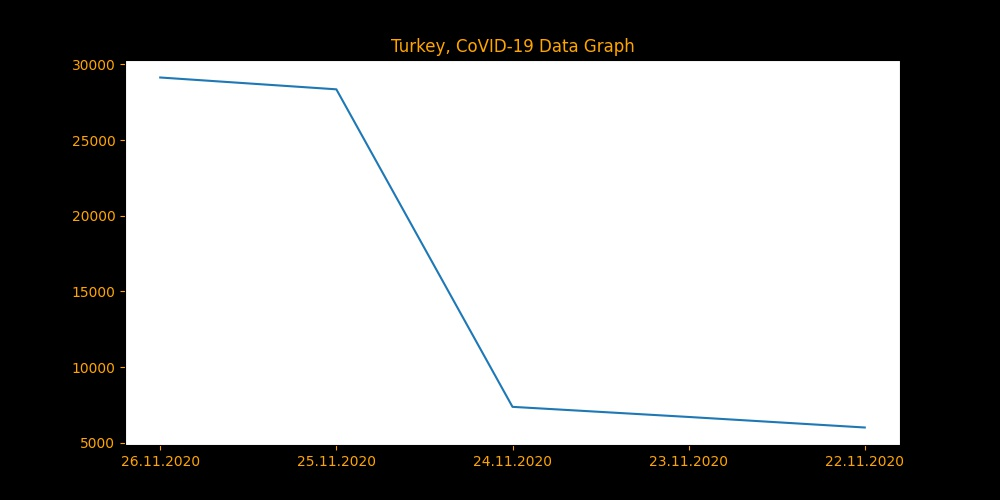
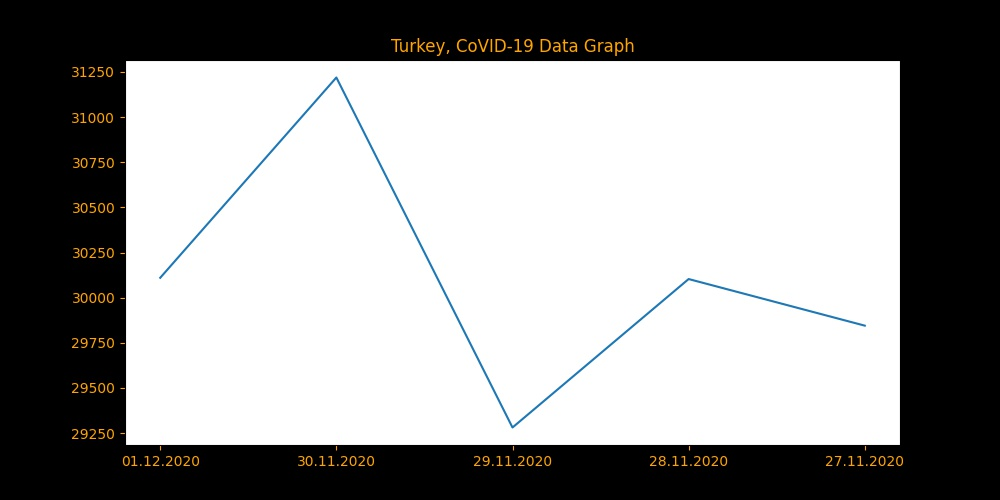
:notebook: 02.12.2020 Update

diff --git a/README_TR.md b/README_TR.md
@@ -11,18 +11,20 @@ Burada, Türkiye'nin [COVID-19 (Koronavirüs) (Hakkında bilgi almak için tıkl
 Not: Bütün veriler, Türkiye Sağlık Bakanlığı'ndan sağlanmaktadır. Eğer veriler güncel değilse, bu büyük ihtimal [devletin web sitesi](https://covid19.saglik.gov.tr) ile alakalıdır. Tamamdır, o zaman başlayalım!
 
 Öncelikle bugünün verileri:
-## :calendar: 26.11.2020 Koronavirüs Verileri:
+## :calendar: 01.12.2020 Koronavirüs Verileri:
 | Veri Tipi         | Bugünün Verileri   | Toplam Veriler     |
 | :---              |    :----           |     :---           |
-| Testler           | 29,132    | 86,615    |
-| Vakalar           | 174   | 13,113    |
-| Tedaviler         | 168,348    | 18,029,926|
-| Vefatlar          | 3,291| 391,578   |
+| Testler           | 30,110    | 238,151    |
+| Hastalar          | 190   | 14,051   |
+| Tedaviler         | 180,312    | 18,912,626    |
+| Vefatlar          | 4,593| 413,429|
 
-:clock9: `Son Güncelleme: 26.11.2020 21:49`
+Not: Doğru "Vaka" sayısı 25.11.2020'den itibaren verilmeye başladığı için toplam veriyi doğru hesaplayamıyoruz...
+
+:clock9: `Son Güncelleme: 02.12.2020 19:04`
 \
 \
-Ülkemiz ile alakalı gönderilen verilerde bir gariplik var. Devletin verdiği toplam veriler ile günlük veriler arasında uyuşmazlık mevcut. Eğer her günün verisini birbirine eklersek, Bizim hesaplamamız vakalar için **387991** tane daha az çıkıyor. Bu, ölümler için **99** , testler için **128058** ve tedavi olanlar için **2807** . Neden devletimiz böyle bir şey yapıyor anlamıyoruz. YOKSA VERİLER YANLIŞ MI??!?\
+Ülkemiz ile alakalı gönderilen verilerde bir gariplik var. Devletin verdiği toplam veriler ile günlük veriler arasında uyuşmazlık mevcut. Eğer her günün verisini birbirine eklersek, Bizim hesaplamamız vakalar için **268815** tane daha az çıkıyor. Bu, ölümler için **115** , testler için **140022** ve tedavi olanlar için **4109** . Neden devletimiz böyle bir şey yapıyor anlamıyoruz. YOKSA VERİLER YANLIŞ MI??!?\
 Neyse tamam, hadi grafikler hakkında konuşalım. Dünle bu günün karşılaştırma grafiği:\
 ![Graph](https://github.com/lysep-corp/COVID-19/blob/master/Graphs/YESTERDAY_COMP_TODAY_TR.jpeg?raw=true)
 

diff --git a/README.md b/README.md
@@ -11,18 +11,20 @@ In this we will gonna show you where is the Turkey going about [COVID-19 Pandemi
 Note: All the data coming from Türk Ministery of Health's public website. If datas are not up-to-date, probably this is about the [goverment's website](https://covid19.saglik.gov.tr) if our server's are not die. Okey, Let's start than!
 
 First today's datas:
-## :calendar: 26.11.2020 Corona virus Datas:
+## :calendar: 01.12.2020 Corona virus Datas:
 | Data Type         | Today's Datas      | All Time Data      |
 | :---              |    :----           |     :---           |
-| Tests             | 168,348    | 18,029,926    |
-| Cases             | 29,132    | 86,615    |
-| Cures             | 3,291| 391,578|
-| Deaths            | 174   | 13,113|
+| Tests             | 180,312    | 18,912,626    |
+| Cases             | 30,110    | 238,151    |
+| Cures             | 4,593| 413,429|
+| Deaths            | 190   | 14,051   |
 
-:clock9: `Last Update: 26.11.2020 21:49`
+Note: Correct "Cases" data started on 25.11.2020. So we can't count all time data correctly...
+
+:clock9: `Last Update: 02.12.2020 19:04`
 \
 \
-There is something weird going on about our country's data. There is a little bit difference about goverment's all time data and daily datas. If we gonna add everyday's data to each other, Our calculation is **387991** less than the goverment's case calculation. It's **99** for deaths, **128058** for tests and **2807** for cured person count. We don't know why our country is doing that. ARE THE DATAS WRONG??!?\
+There is something weird going on about our country's data. There is a little bit difference about goverment's all time data and daily datas. If we gonna add everyday's data to each other, Our calculation is **268815** less than the goverment's case calculation. It's **115** for deaths, **140022** for tests and **4109** for cured person count. We don't know why our country is doing that. ARE THE DATAS WRONG??!?\
 Okey, let's talk about the graphs. Here is today's data is compare with yesterdays:\
 ![YESTERDAY_COMP_TODAY_EN](https://github.com/lysep-corp/COVID-19/blob/master/Graphs/YESTERDAY_COMP_TODAY_EN.jpeg?raw=true)
 
